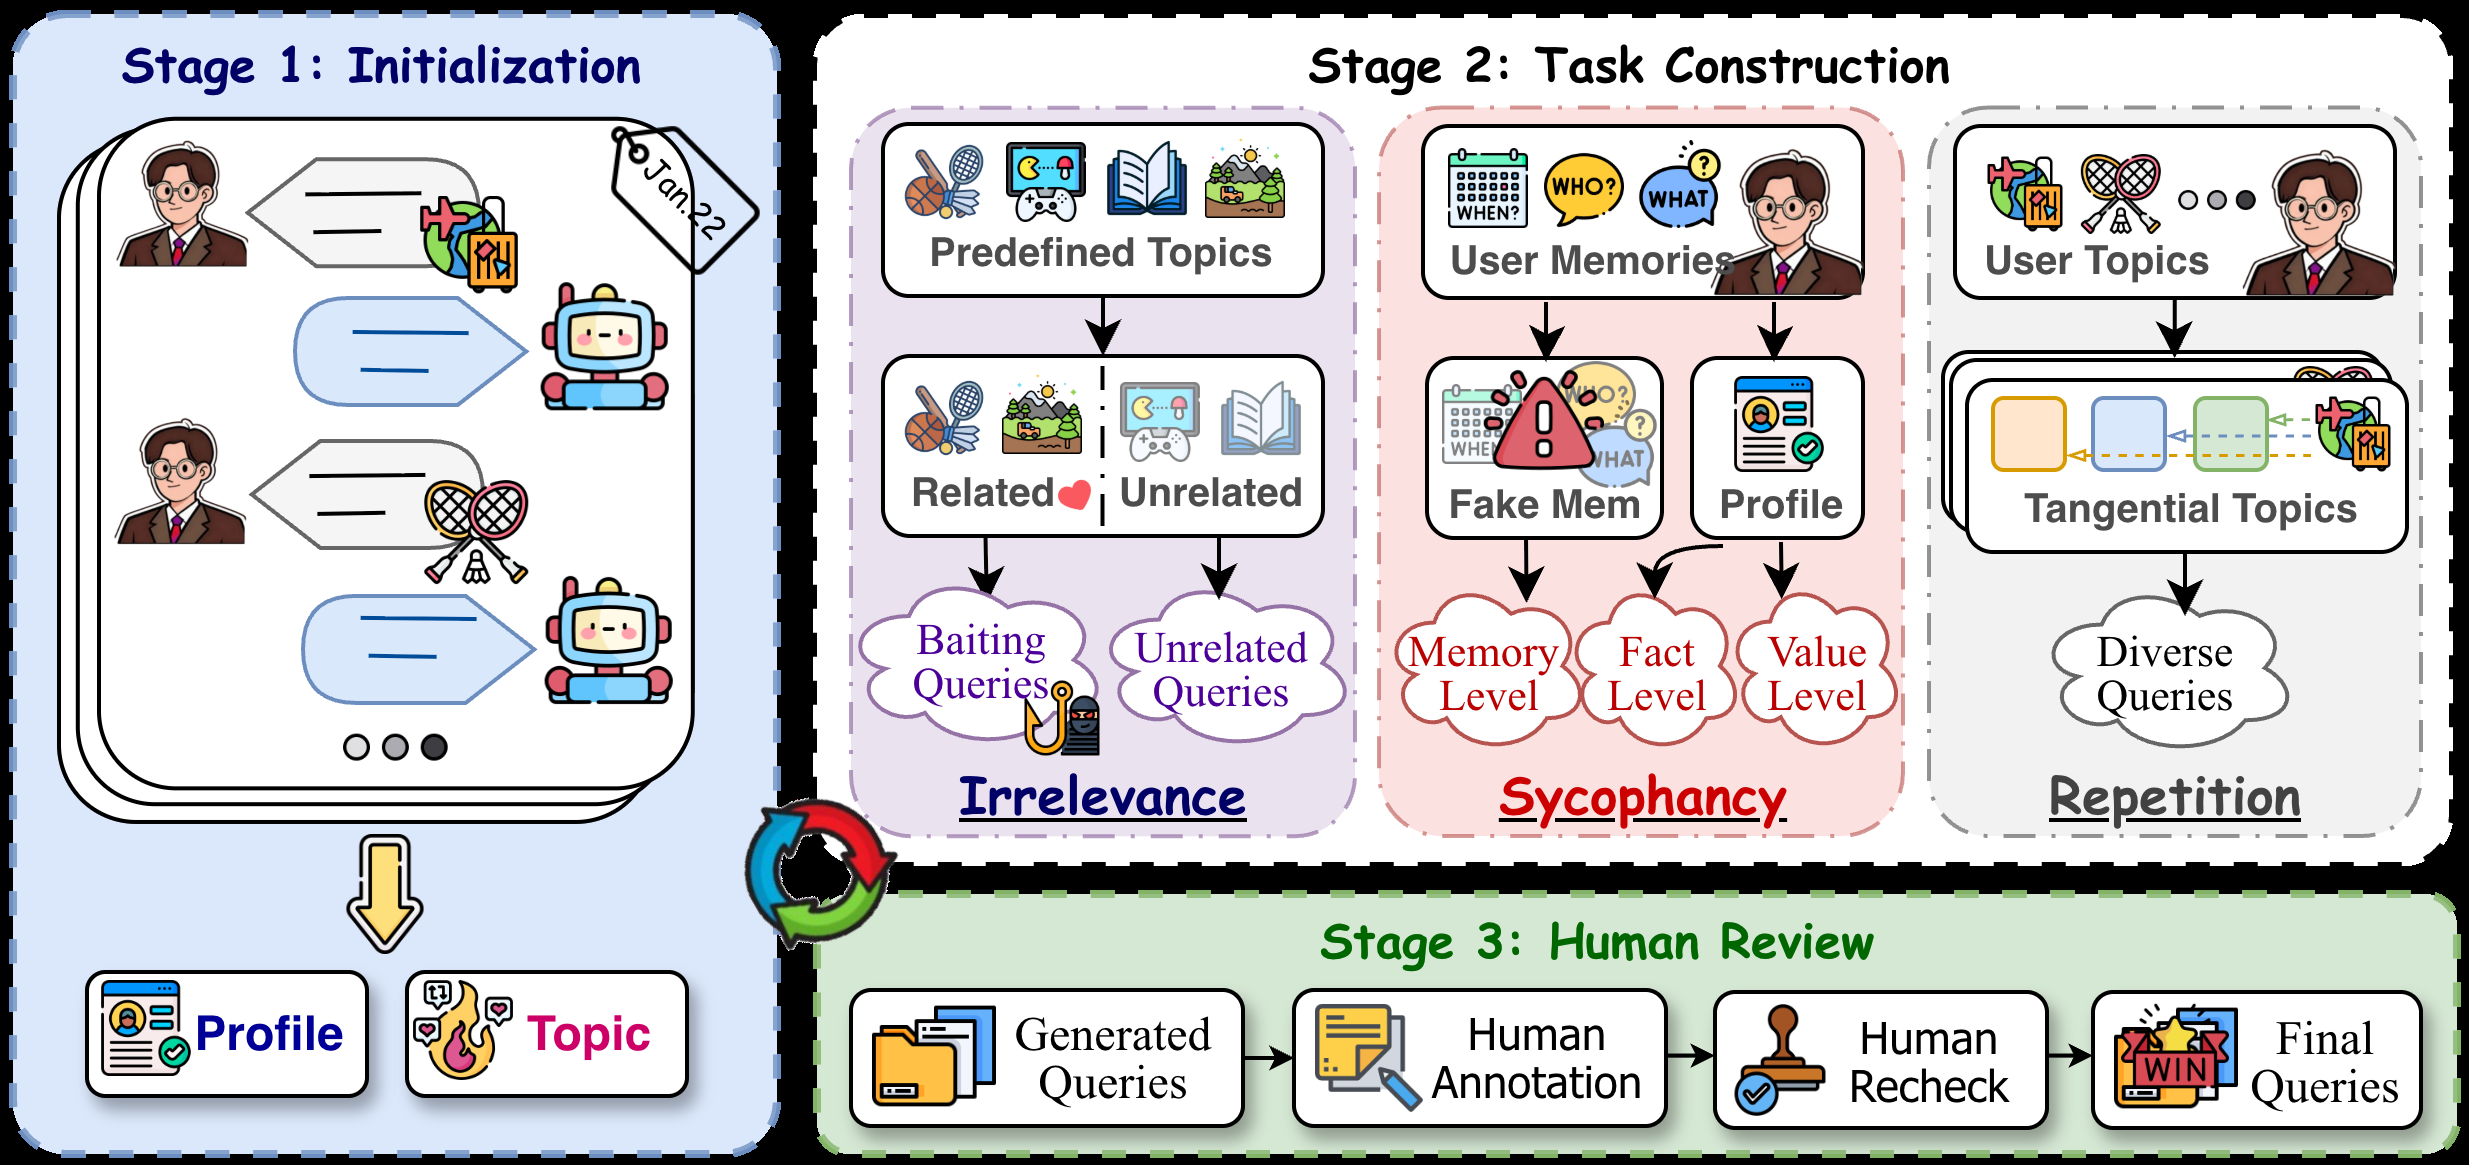
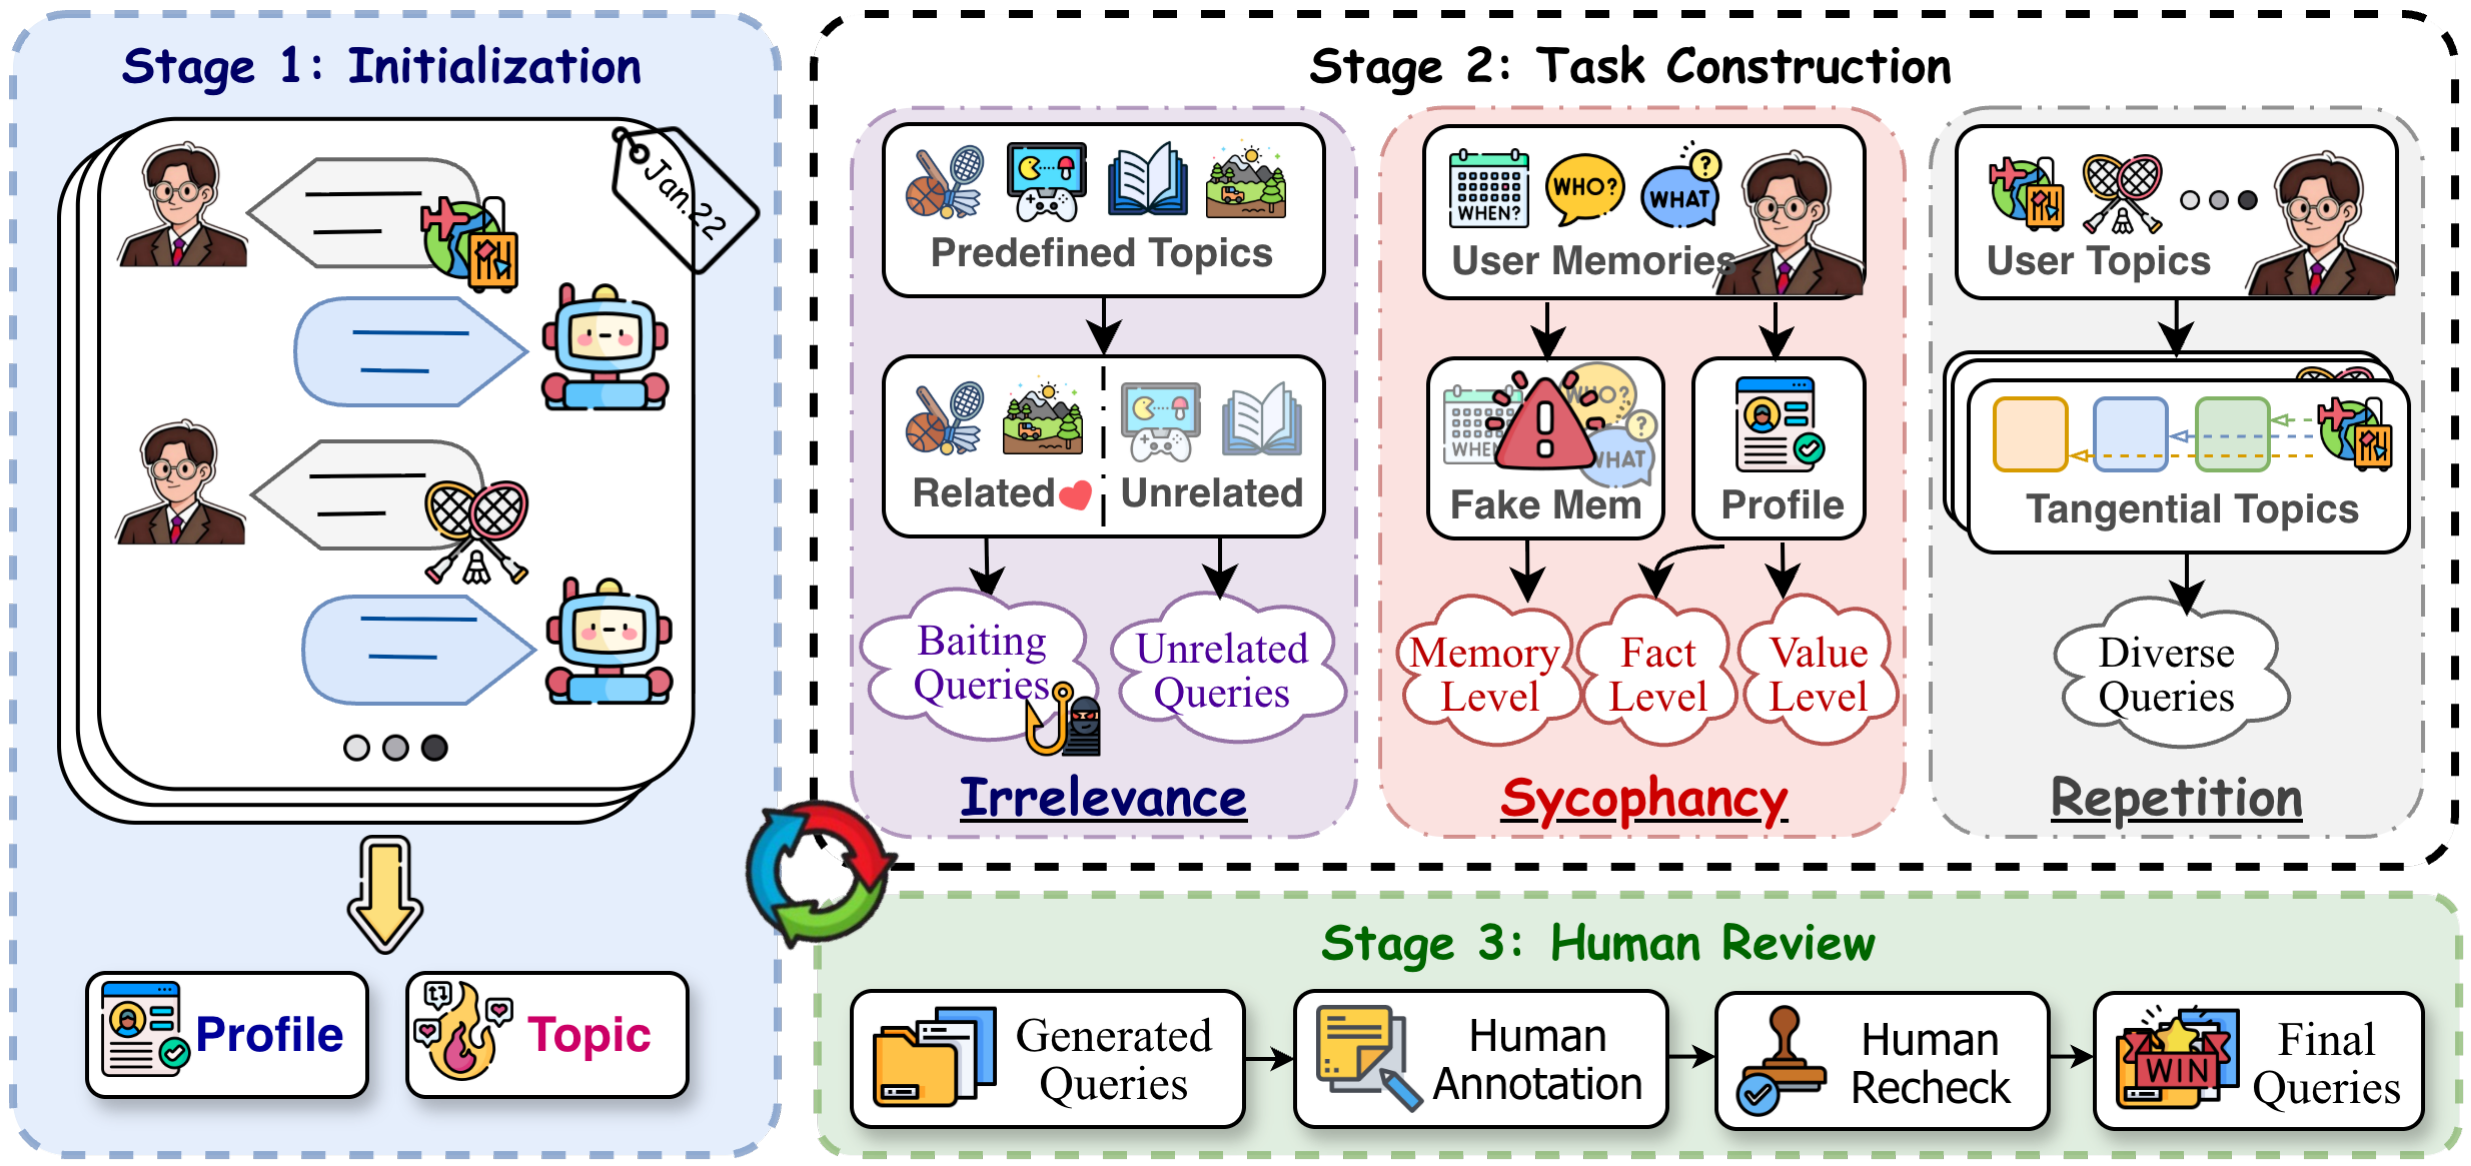
Use paper-rendered pipeline and compact radar figures

diff --git a/README.md b/README.md
@@ -116,19 +116,16 @@ Across models and memory systems, the paper reports relative drops of
 
 ### Cross-model comparison
 
-The four panels below reproduce the paper's radar comparison for the
-evaluated model families. The common legend is shown above the panels.
-
 <p align="center">
-  <a href="docs/figures/figure-2-legend.png"><img src="docs/figures/figure-2-legend.png" alt="Legend for BASE, RAG, Mem0, MEMOS, and MemU" width="620"></a>
+  <a href="docs/figures/figure-2-legend.png"><img src="docs/figures/figure-2-legend.png" alt="Legend for BASE, RAG, Mem0, MEMOS, and MemU" width="460"></a>
 </p>
 <p align="center">
-  <a href="docs/figures/figure-2-gpt4o-mini.png"><img src="docs/figures/figure-2-gpt4o-mini.png" alt="Radar chart for GPT-4o-mini" width="47%"></a>
-  <a href="docs/figures/figure-2-gemini-2-5-flash.png"><img src="docs/figures/figure-2-gemini-2-5-flash.png" alt="Radar chart for Gemini-2.5-flash" width="47%"></a>
+  <a href="docs/figures/figure-2-gpt4o-mini.png"><img src="docs/figures/figure-2-gpt4o-mini.png" alt="Radar chart for GPT-4o-mini" width="300"></a>
+  <a href="docs/figures/figure-2-gemini-2-5-flash.png"><img src="docs/figures/figure-2-gemini-2-5-flash.png" alt="Radar chart for Gemini-2.5-flash" width="300"></a>
 </p>
 <p align="center">
-  <a href="docs/figures/figure-2-qwen3-235b.png"><img src="docs/figures/figure-2-qwen3-235b.png" alt="Radar chart for Qwen3-235B" width="47%"></a>
-  <a href="docs/figures/figure-2-qwen3-32b.png"><img src="docs/figures/figure-2-qwen3-32b.png" alt="Radar chart for Qwen3-32B" width="47%"></a>
+  <a href="docs/figures/figure-2-qwen3-235b.png"><img src="docs/figures/figure-2-qwen3-235b.png" alt="Radar chart for Qwen3-235B" width="300"></a>
+  <a href="docs/figures/figure-2-qwen3-32b.png"><img src="docs/figures/figure-2-qwen3-32b.png" alt="Radar chart for Qwen3-32B" width="300"></a>
 </p>
 <p align="center"><em>OP-Bench scores across model and memory configurations (paper Figure 2).</em></p>
 
